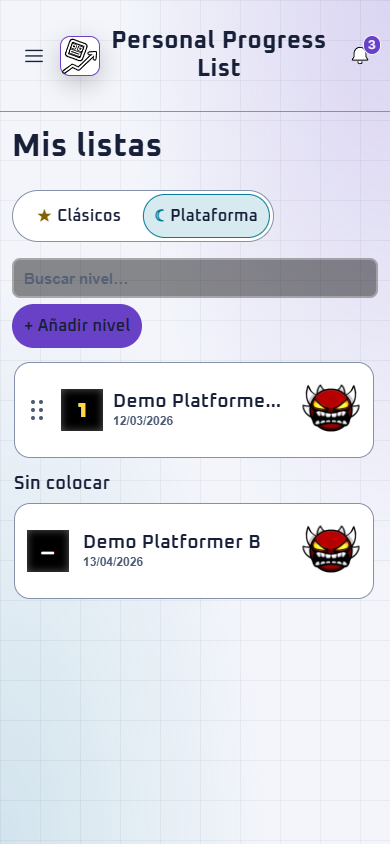
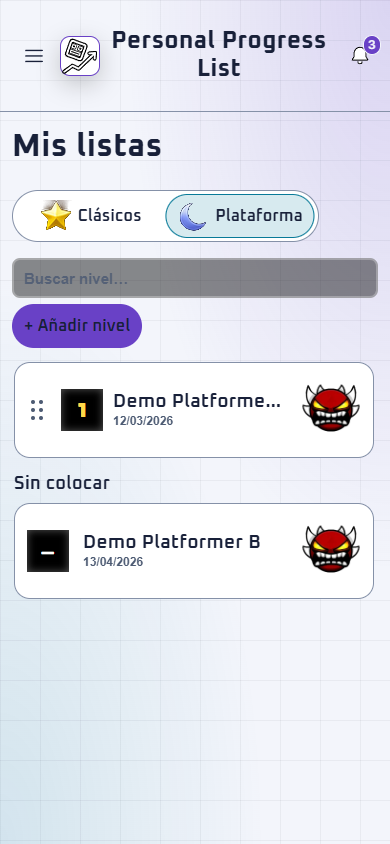
Use the faceted star and crescent from R1 in the list selector

Changed region(s): [[0.0923, 0.2156, 0.8308, 0.3081]]

diff --git a/js/components/levels.js b/js/components/levels.js
@@ -188,7 +188,7 @@ function setListTagFilter() {
 /** Left column: name search, tag filters and the list. */
 function lcol() {
     const options = listTagOptions(profile.levels.filter(level => level.kind == ui.tab), ui.tagFilter);
-    const modes = ['classic', 'platform'].map(kind => `<button type=button data-act=tab data-v=${kind} aria-pressed=${ui.tab == kind}${ui.tab == kind ? ' disabled' : ''}><span aria-hidden=true>${kind == 'classic' ? '&#9733;' : '&#9790;'}</span> ${t(kind)}</button>`).join('');
+    const modes = ['classic', 'platform'].map(kind => `<button type=button data-act=tab data-v=${kind} aria-pressed=${ui.tab == kind}${ui.tab == kind ? ' disabled' : ''}><img src="assets/modes/${kind}.png" alt="" width=32 height=32> ${t(kind)}</button>`).join('');
     return `<div class=mode-switch role=group aria-label="${t('lists')}">${modes}</div><div class=lh><input id=q type=search placeholder="${t('search')}" aria-label="${t('search')}" value="${escapeHtml(ui.q)}">${options.length ? `<details class=ms><summary>${escapeHtml(listTagSummary())}</summary><div class=msp>${options.map(name => `<label><input type=checkbox name=tagf value="${escapeHtml(name)}"${ui.tagFilter.includes(name) ? ' checked' : ''}><span class=chip style="${tagStyle(name)}">${escapeHtml(name)}</span></label>`).join('')}</div></details><button type=button class="xs dg" data-act=ct aria-label="${t('clearTags')}" title="${t('clearTags')}"${ui.tagFilter.length ? '' : ' hidden'}>${ICONS.del}</button>` : ''}${canEdit() ? `<button type=button class=list-add data-act=add>+ ${t('palAdd')}</button>` : ''}</div><div id=lw>${list()}</div>`;
 }
 

diff --git a/sw.js b/sw.js
@@ -1,7 +1,7 @@
 /**
  * Service worker for installation and offline use, fetching same-origin files from the network first with a cache fallback.
  */
-const CACHE = 'prp-1.13.0';
+const CACHE = 'prp-1.13.1';
 // vendor/supabase.js is intentionally omitted so visitors who never sign in never download it.
 const SHELL = [
   "./",
@@ -16,6 +16,8 @@ const SHELL = [
   "manifest.json",
   "icon.svg",
   "favicon.png",
+  "assets/modes/classic.png",
+  "assets/modes/platform.png",
   "vendor/Sortable.min.js",
   "fonts/lilita-one-latin.woff2",
   "fonts/lilita-one-latin-ext.woff2",

diff --git a/css/styles.css b/css/styles.css
@@ -917,9 +917,6 @@ dialog.modal::backdrop {
   --mode-ink: var(--color-mode-platform);
 }
 
-.mode-switch [data-v=classic] span { color: var(--color-mode-classic); }
-.mode-switch [data-v=platform] span { color: var(--color-mode-platform); }
-
 .mode-switch button[aria-pressed=true] {
   color: var(--color-text);
   opacity: 1;
